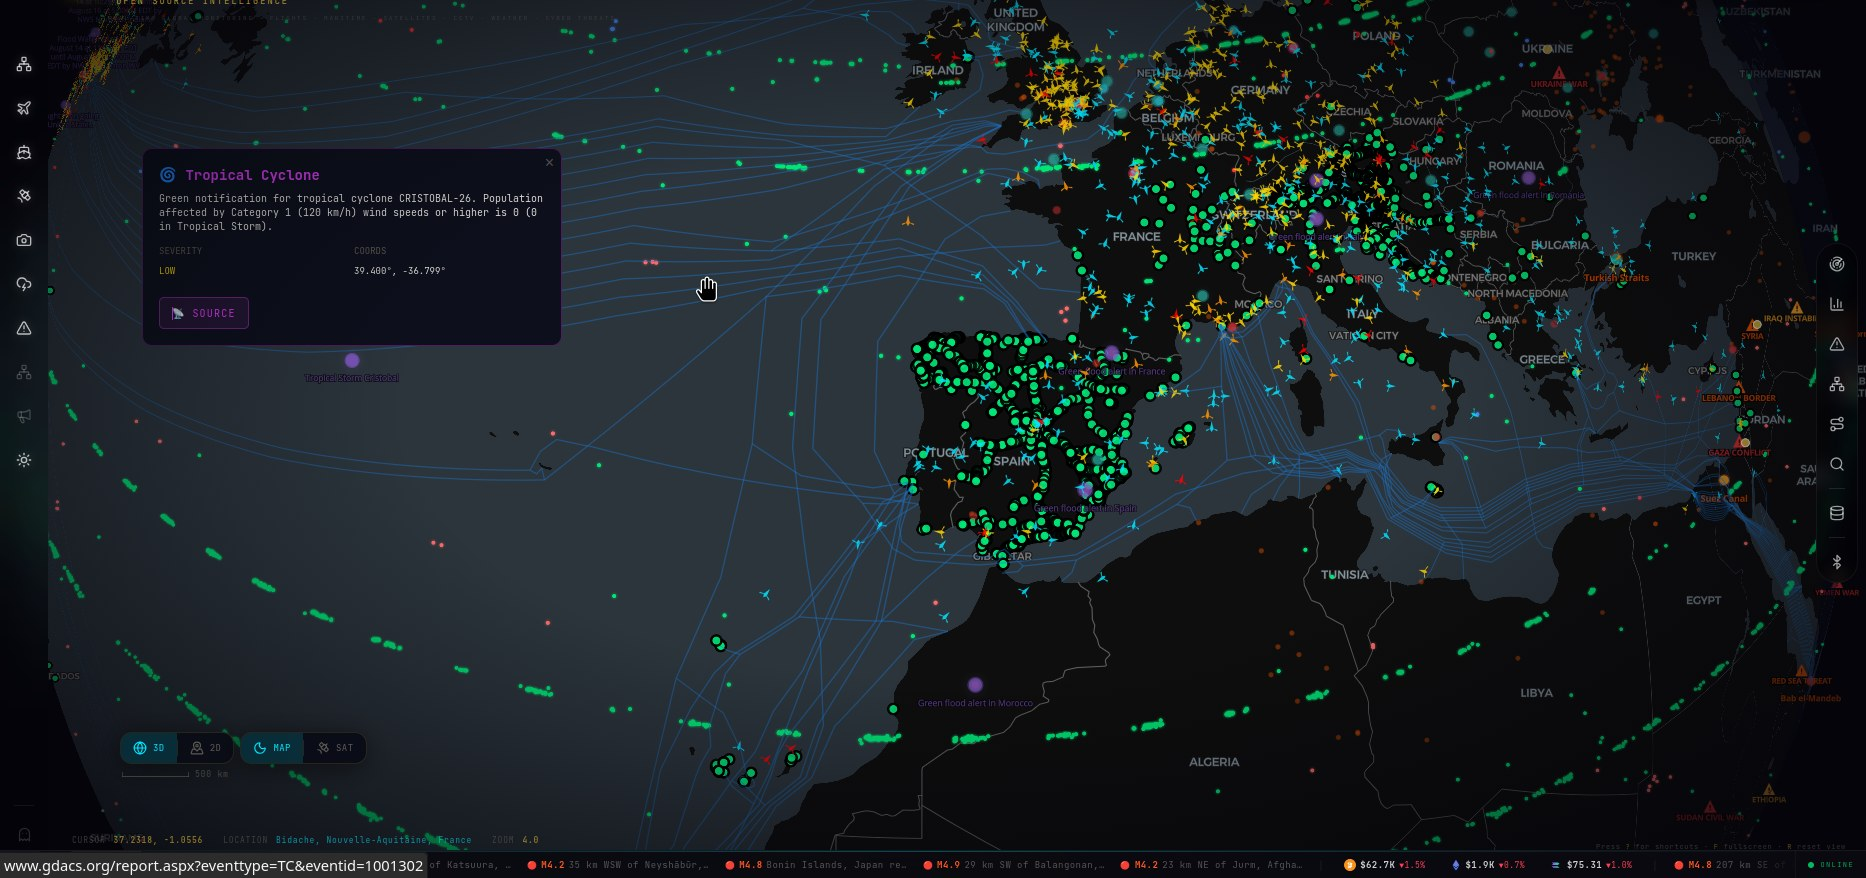
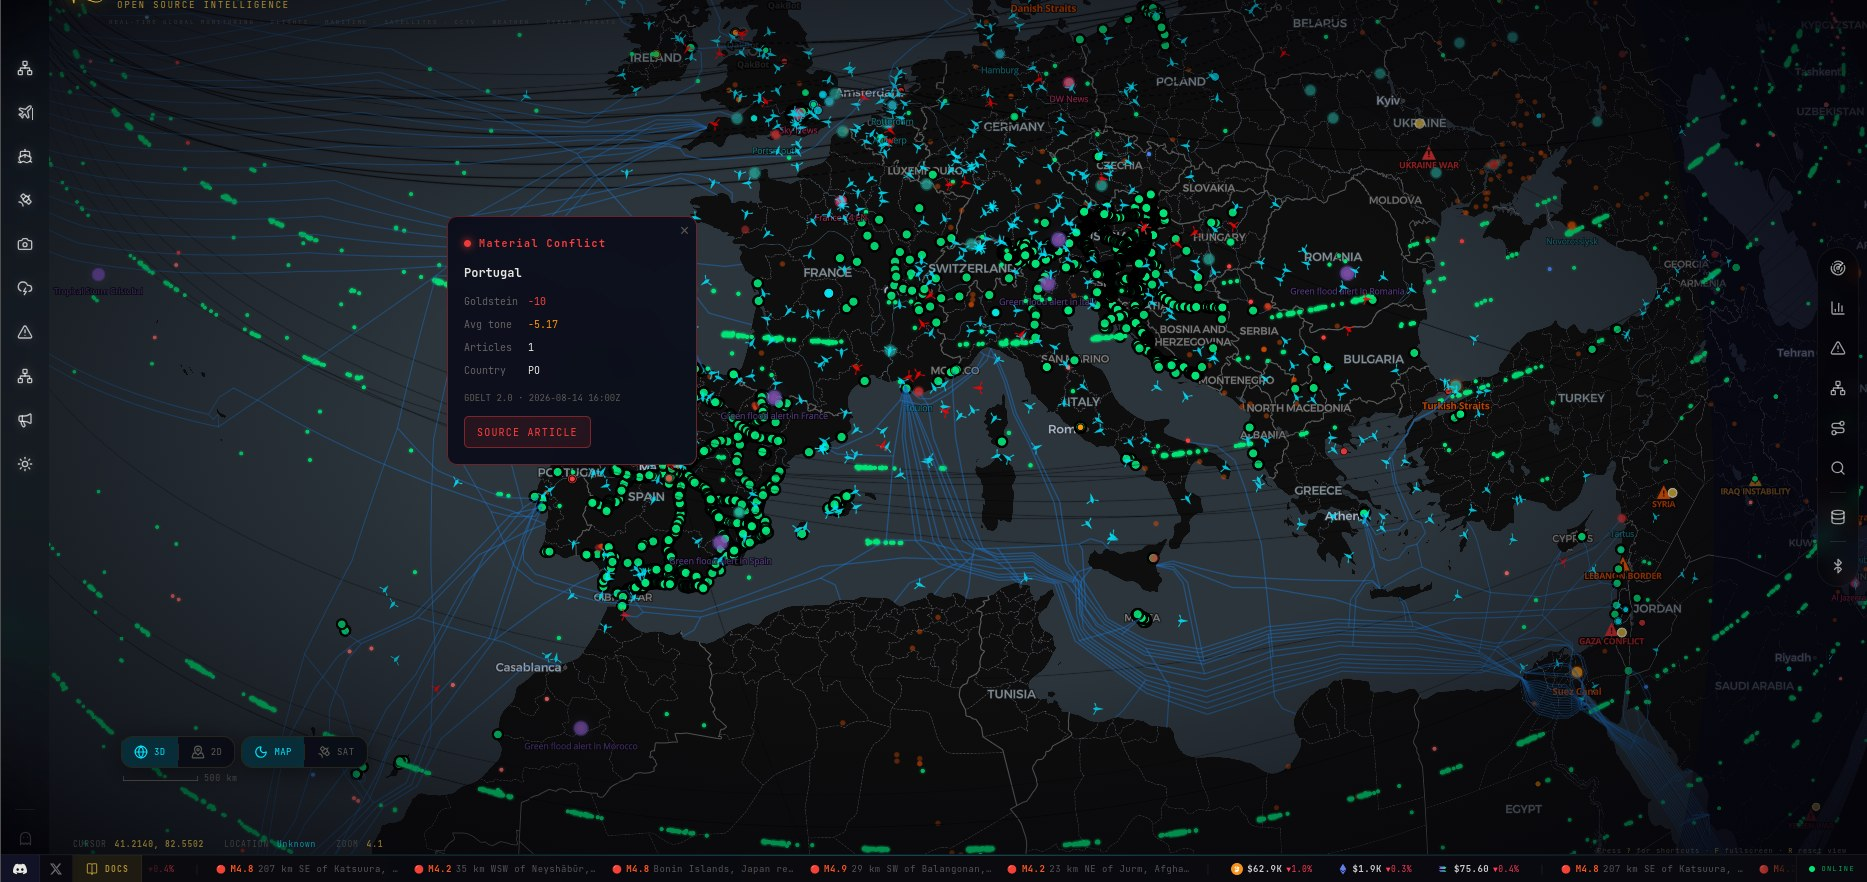
Hero: swap to better dashboard screenshot, slow zoom way down
Live feedback: "lets have this as hero image its a better shot and
must move way slower the hero its way too fast". Replaces
hero-software.jpeg with the new shot, stretches the Ken Burns
zoom-out from 22s to 60s (same scale range/easing).

diff --git a/frontend/src/index.css b/frontend/src/index.css
@@ -332,7 +332,9 @@ h1, h2, h3, .rfi-display {
   to { transform: scale(1); }
 }
 .rfi-hero-zoom {
-  animation: rfi-hero-zoom-out 22s cubic-bezier(0.16,1,0.3,1) forwards;
+  /* Live feedback 2026-08-14: "must move way slower, the hero its way too fast" -
+     60s (up from 22s), same easing/scale range, just stretched. */
+  animation: rfi-hero-zoom-out 60s cubic-bezier(0.16,1,0.3,1) forwards;
   will-change: transform;
 }
 @media (prefers-reduced-motion: reduce) {
